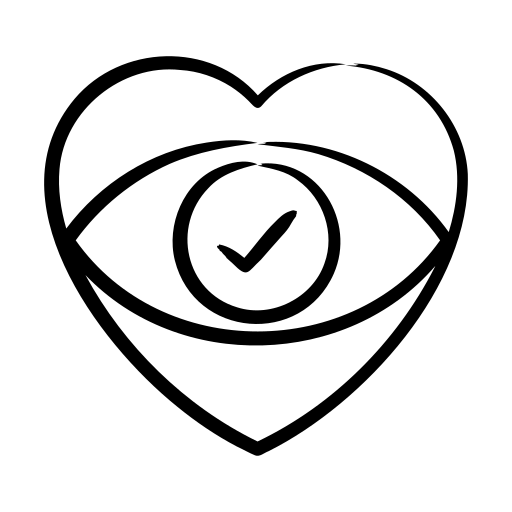
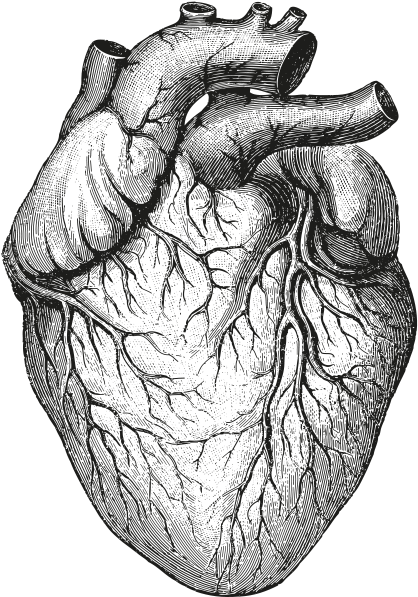
fixing heart visualization

diff --git a/index.html b/index.html
@@ -168,6 +168,14 @@
             <p>Select a dataset to begin visualization.</p>
         </div>
 
+        <!-- Progress Bar for Heart Rate Visualization -->
+        <div id="heart-progress-container" style="display: none; text-align: center; margin-top: 10px;">
+            <label for="heart-progress">Timeline:</label>
+            <input type="range" id="heart-progress" min="0" value="0" step="1" style="width: 50%;" />
+            <span id="heart-progress-value">0</span>
+        </div>
+
+
         <div id="chart-container">
             <svg id="heart-chart" width="600" height="300"></svg>
         </div>
@@ -421,6 +429,12 @@
                     .attr("class", "heart-rate-display")
                     .text(`${student}: -- BPM`);
 
+                // Add a placeholder for the student's grade
+                studentDiv.append("p")
+                    .attr("id", `heart-grade-${student}`)
+                    .attr("class", "heart-grade-display")
+                    .text(`Grade: --`);
+
                 let chartContainer = studentDiv.append("div")
                     .attr("class", "student-chart-container");
 
@@ -430,33 +444,96 @@
                     .attr("height", 80);
             });
 
+            // Show progress bar
+            document.getElementById("heart-progress-container").style.display = "block";
+
+            const heartProgress = document.getElementById("heart-progress");
+            const heartProgressVal = document.getElementById("heart-progress-value");
+
+            // Determine max time limit based on dataset
+            let maxTime = 90;  // Default for midterm
+            let isFinalExam = false;
+            if (data.length > 0) {
+                let maxDataTime = d3.max(data, d => d.Minute);
+                if (maxDataTime > 90) {
+                    maxTime = 180; // Final exam
+                    isFinalExam = true;
+                }
+            }
+
+            // Set progress bar properties
+            heartProgress.min = 0;
+            heartProgress.max = maxTime;
+            heartProgress.value = 0;
+            heartProgressVal.textContent = 0;
+
             let timeIndex = 0;
-            function step() {
-                if (timeIndex < data.length) {
-                    let students = Array.from(new Set(data.map(d => d.Student)));
-                    students.forEach(student => {
-                        let studentData = data.filter(d => d.Student === student);
-                        if (timeIndex < studentData.length) {
-                            let currentHR = studentData[timeIndex].HR;
-                            let bpmText = `${student}: ${Math.round(currentHR)} BPM`;
+            let isPlaying = true;
 
-                            d3.select(`#heart-${student}`)
-                                .transition().duration(60000 / currentHR / 2)
-                                .style("transform", "scale(1.2)")
-                                .transition().duration(60000 / currentHR / 2)
-                                .style("transform", "scale(1)");
+            function drawHeartFrame(t) {
+                students.forEach(student => {
+                    let studentData = data.filter(d => d.Student === student);
+                    if (t < studentData.length) {
+                        let currentHR = studentData[t].HR;
+                        let bpmText = `${student}: ${Math.round(currentHR)} BPM`;
 
-                            d3.select(`#heart-rate-display-${student}`).text(bpmText);
-                            updateStudentChart(student, studentData.slice(0, timeIndex + 1));
+                        // Improved color contrast: blue for low HR, red for high HR
+                        const colorScale = d3.scaleLinear()
+                            .domain([40, 100, 180]) // Low, mid, high HR
+                            .range(["#3399ff", "#ffff66", "#cc0000"]); // Blue → Yellow → Deep Red
+
+                        let heartColor = colorScale(currentHR);
+
+                        // Apply new color & subtle heartbeat effect
+                        d3.select(`#heart-${student}`)
+                            .style("filter", `drop-shadow(0px 0px 8px ${heartColor})`)
+                            .style("transition", "transform 0.2s ease-in-out")
+                            .transition().duration(60000 / currentHR / 3)
+                            .style("transform", "scale(1.2)")
+                            .transition().duration(60000 / currentHR / 3)
+                            .style("transform", "scale(1)");
+
+                        d3.select(`#heart-rate-display-${student}`).text(bpmText);
+                        updateStudentChart(student, studentData.slice(0, t + 1));
+
+                        // Format grade correctly
+                        let studentGrade = studentData[t].Grade || "N/A";
+                        if (isFinalExam && studentGrade !== "N/A") {
+                            studentGrade = (studentGrade / 200 * 100).toFixed(1) + "%"; // Convert score to percent
+                        } else if (studentGrade !== "N/A") {
+                            studentGrade = studentGrade + "%"; // Midterms already in %
                         }
-                    });
+                        d3.select(`#heart-grade-${student}`).text(`Grade: ${studentGrade}`);
+                    }
+                });
 
+                // Update progress bar
+                heartProgress.value = t;
+                heartProgressVal.textContent = t;
+            }
+
+            function step() {
+                if (timeIndex < maxTime) {
+                    drawHeartFrame(timeIndex);
                     timeIndex++;
                     visualizationTimeout = setTimeout(step, 500);
+                } else {
+                    isPlaying = false; // Stop at the end
                 }
             }
             step();
+
+            // Allow manual control via progress bar
+            heartProgress.addEventListener("input", function(event) {
+                clearTimeout(visualizationTimeout);
+                timeIndex = parseInt(event.target.value, 10);
+                heartProgressVal.textContent = timeIndex;
+                isPlaying = false; // Stop auto-play when manually adjusted
+                drawHeartFrame(timeIndex);
+            });
         }
+
+
 
         function updateStudentChart(student, data) {
             const svg = d3.select(`#chart-${student}`);
@@ -1033,6 +1110,11 @@
                 // ----------- End Hover Interactivity -----------
             });
         }
+        document.getElementById("heart-progress").addEventListener("input", function(event) {
+            let newIndex = parseInt(event.target.value, 10);
+            timeIndex = newIndex;
+        });
+
     </script>
 
     <div id="tooltip" style="

diff --git a/styles.css b/styles.css
@@ -63,6 +63,20 @@ nav {
     text-align: center;
 }
 
+.heart-mask {
+    width: 80px;
+    height: 80px;
+    -webkit-mask-image: url("images/clarity.png");
+    mask-image: url("images/clarity.png");
+    -webkit-mask-repeat: no-repeat;
+    mask-repeat: no-repeat;
+    -webkit-mask-position: center;
+    mask-position: center;
+    -webkit-mask-size: contain;
+    mask-size: contain;
+    background-color: #ffcccc; /* Default light red */
+    transition: background-color 0.3s ease;
+}
 
 
 .student-chart-container {
